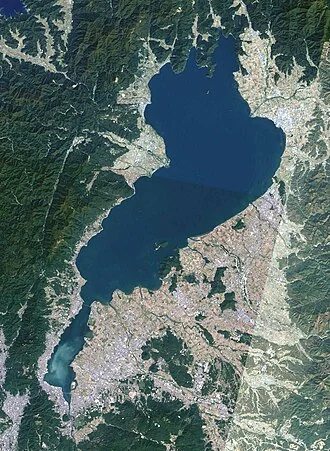
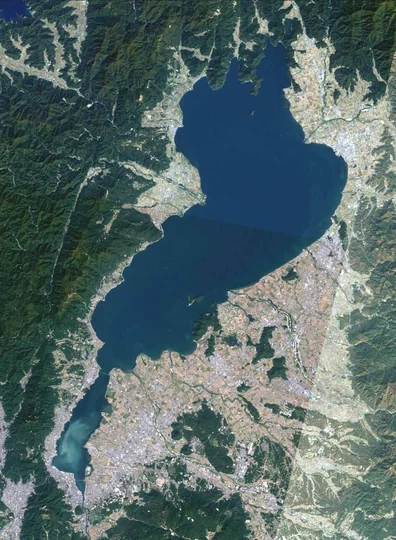
琵琶湖のクレジットを入れ、画像を大きいものに取りなおす
CC BY-SA 3.0 / Global Land Cover Facility と確認できたので表示する。
あわせて、ライセンス欄のスクリーンショットに写っていた画像のほうが
大きかったので、そちらから取りなおした（330x451 → 1048x1430）。

これで出どころが未確認の写真は無くなった。

Claude-Session: https://claude.ai/code/session_01WZUqPswpj4cY24D1CTnCnu

diff --git a/img/figures/ans/CREDITS.md b/img/figures/ans/CREDITS.md
@@ -27,7 +27,7 @@ PD / CC0 の写真は、画面表示は不要。
 | `riasukaigan.webp` | リアス海岸（対馬・浅茅湾の空撮） | Wikimedia Commons<br>`Asou-Bay ria coast aerial photograph.JPG` | **CC BY**<br>→ **画面に表示ずみ** | 国土交通省 |
 | `karudera.webp` | カルデラ（阿蘇山） | Wikimedia Commons<br>`Mount Aso lifeless panorama (49648240197).jpg` | **CC BY 2.0**<br>→ **画面に表示ずみ** | Raita Futo |
 | `karuderako.webp` | カルデラ湖（摩周湖・ランドサット） | Wikimedia Commons<br>`Lake masyu landsat.jpg` | **CC BY-SA 3.0**<br>→ **画面に表示ずみ** | Tdk（日本語版Wikipedia） |
-| `biwako.webp` | 琵琶湖（衛星写真） | Wikipedia 経由 | **確認中**<br>CC BY / CC BY-SA なら `ansFigBy` を足すこと | **確認中** |
+| `biwako.webp` | 琵琶湖（ランドサット画像） | 日本語版Wikipedia 経由 | **CC BY-SA 3.0**<br>→ **画面に表示ずみ** | Global Land Cover Facility（GLCF） |
 | `nikukyu.webp` | 肉球 | Wikimedia Commons<br>`Kittens paw.JPG` | **CC BY-SA 4.0**<br>→ **画面に表示ずみ** | Rooow Ly |
 | `ashika.webp` | アシカ | Wikimedia Commons | **PD**（パブリックドメイン） | José Lodos Benavente<br>（写真に署名が写りこんでいる。PDなので画面の表示は不要） |
 
